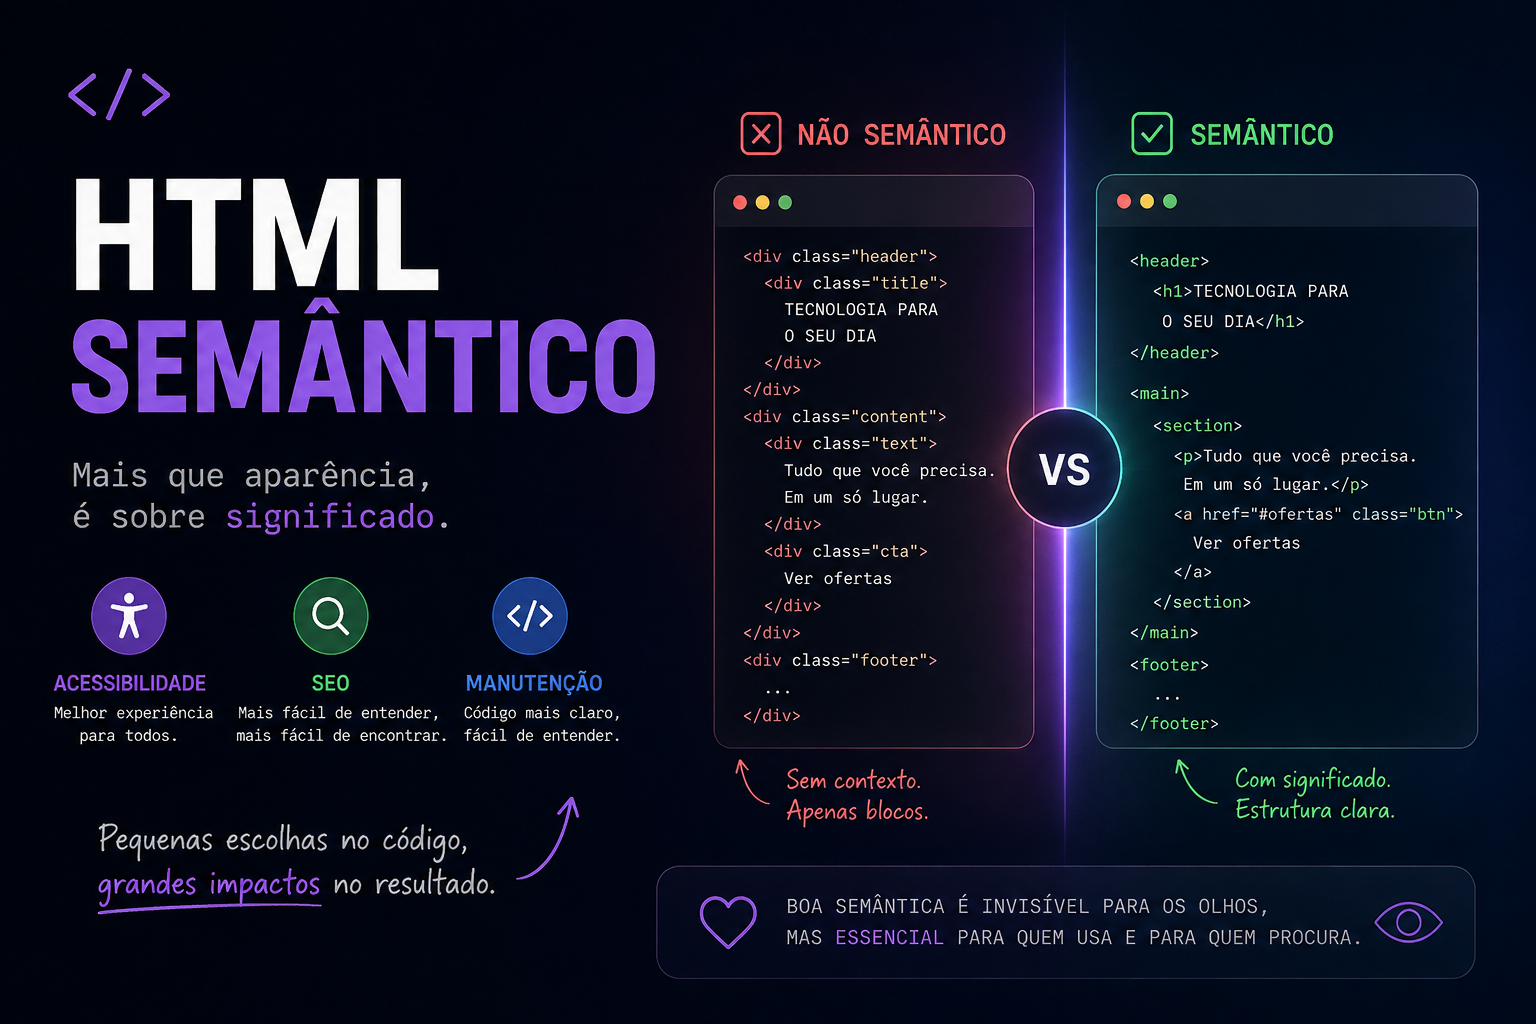
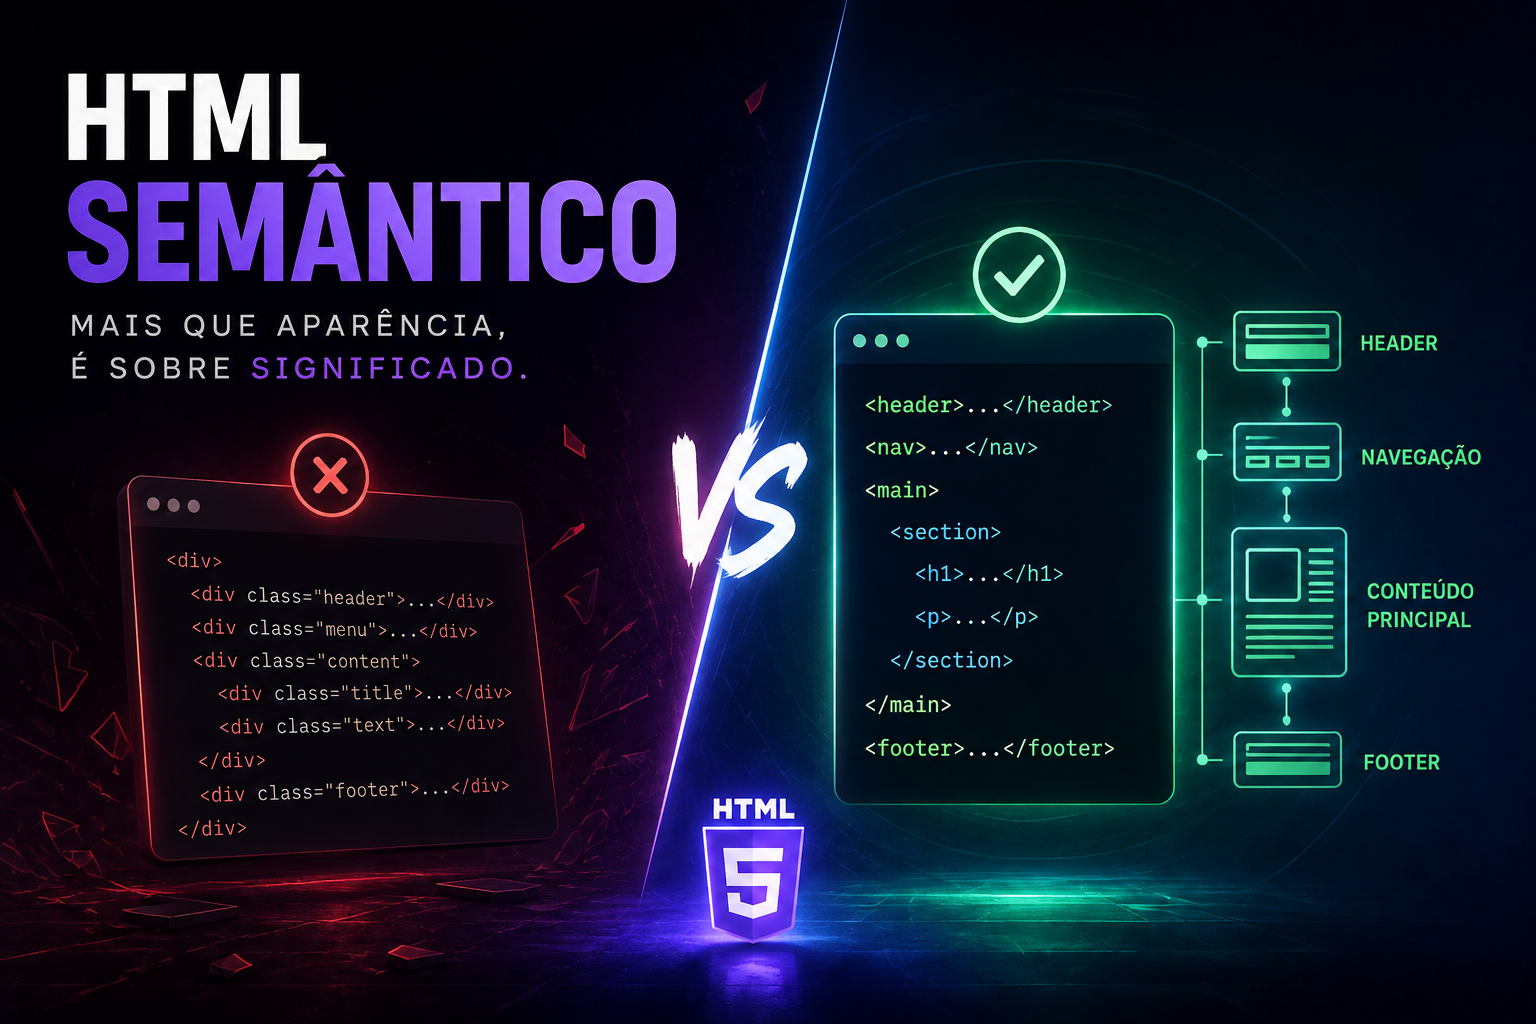
feat(blog): enhance blog with semantic HTML and syntax highlighting support

diff --git a/app/utils/markdown.ts b/app/utils/markdown.ts
@@ -1,0 +1,59 @@
+import hljs from 'highlight.js/lib/core'
+import bash from 'highlight.js/lib/languages/bash'
+import css from 'highlight.js/lib/languages/css'
+import javascript from 'highlight.js/lib/languages/javascript'
+import json from 'highlight.js/lib/languages/json'
+import typescript from 'highlight.js/lib/languages/typescript'
+import xml from 'highlight.js/lib/languages/xml'
+import MarkdownIt from 'markdown-it'
+
+hljs.registerLanguage('bash', bash)
+hljs.registerLanguage('css', css)
+hljs.registerLanguage('html', xml)
+hljs.registerLanguage('javascript', javascript)
+hljs.registerLanguage('js', javascript)
+hljs.registerLanguage('json', json)
+hljs.registerLanguage('typescript', typescript)
+hljs.registerLanguage('ts', typescript)
+hljs.registerLanguage('vue', xml)
+hljs.registerLanguage('xml', xml)
+
+const escapeHtml = (value: string) =>
+  value
+    .replaceAll('&', '&amp;')
+    .replaceAll('<', '&lt;')
+    .replaceAll('>', '&gt;')
+    .replaceAll('"', '&quot;')
+
+export const createMarkdownRenderer = () => {
+  const markdown = new MarkdownIt({
+    html: false,
+    linkify: true,
+    typographer: true,
+    highlight: (code, language) => {
+      if (language && hljs.getLanguage(language)) {
+        return hljs.highlight(code, { language }).value
+      }
+
+      return escapeHtml(code)
+    },
+  })
+
+  const defaultLinkOpenRenderer = markdown.renderer.rules.link_open
+
+  markdown.renderer.rules.link_open = (tokens, index, options, env, self) => {
+    const href = tokens[index].attrGet('href') ?? ''
+    const isExternal = /^https?:\/\//.test(href)
+
+    if (isExternal) {
+      tokens[index].attrSet('target', '_blank')
+      tokens[index].attrSet('rel', 'noreferrer')
+    }
+
+    return defaultLinkOpenRenderer
+      ? defaultLinkOpenRenderer(tokens, index, options, env, self)
+      : self.renderToken(tokens, index, options)
+  }
+
+  return markdown
+}

diff --git a/app/pages/blog/[slug]/index.vue b/app/pages/blog/[slug]/index.vue
@@ -48,10 +48,10 @@
 import AppFooter from '~/components/layout/AppFooter.vue'
 import AppNavbar from '~/components/layout/AppNavbar.vue'
 import Header from '~/components/header/index.vue'
-import MarkdownIt from 'markdown-it'
 import { blogArticles } from '~/data/blog'
 import { siteUrl } from '~/data/constants'
 import { portfolio } from '~/data/portfolio'
+import { createMarkdownRenderer } from '~/utils/markdown'
 
 const route = useRoute()
 const articleSlug = route.params.slug
@@ -68,27 +68,7 @@ if (!article) {
 const canonicalUrl = `${siteUrl}/blog/${article.slug}`
 const socialImage = `${siteUrl}${article.image}`
 
-const markdown = new MarkdownIt({
-  html: false,
-  linkify: true,
-  typographer: true,
-})
-
-const defaultLinkOpenRenderer = markdown.renderer.rules.link_open
-
-markdown.renderer.rules.link_open = (tokens, index, options, env, self) => {
-  const href = tokens[index].attrGet('href') ?? ''
-  const isExternal = /^https?:\/\//.test(href)
-
-  if (isExternal) {
-    tokens[index].attrSet('target', '_blank')
-    tokens[index].attrSet('rel', 'noreferrer')
-  }
-
-  return defaultLinkOpenRenderer
-    ? defaultLinkOpenRenderer(tokens, index, options, env, self)
-    : self.renderToken(tokens, index, options)
-}
+const markdown = createMarkdownRenderer()
 
 const renderedArticle = computed(() => markdown.render(article.content))
 

diff --git a/app/pages/changelog.vue b/app/pages/changelog.vue
@@ -22,37 +22,17 @@
 </template>
 
 <script setup lang="ts">
-import MarkdownIt from 'markdown-it'
 import changelog from '../../CHANGELOG.md?raw'
 import AppFooter from '~/components/layout/AppFooter.vue'
 import AppNavbar from '~/components/layout/AppNavbar.vue'
 import Header from '~/components/header/index.vue'
 import { siteUrl } from '~/data/constants'
 import { portfolio } from '~/data/portfolio'
+import { createMarkdownRenderer } from '~/utils/markdown'
 
 const canonicalUrl = `${siteUrl}/changelog`
 
-const markdown = new MarkdownIt({
-  html: false,
-  linkify: true,
-  typographer: true,
-})
-
-const defaultLinkOpenRenderer = markdown.renderer.rules.link_open
-
-markdown.renderer.rules.link_open = (tokens, index, options, env, self) => {
-  const href = tokens[index].attrGet('href') ?? ''
-  const isExternal = /^https?:\/\//.test(href)
-
-  if (isExternal) {
-    tokens[index].attrSet('target', '_blank')
-    tokens[index].attrSet('rel', 'noreferrer')
-  }
-
-  return defaultLinkOpenRenderer
-    ? defaultLinkOpenRenderer(tokens, index, options, env, self)
-    : self.renderToken(tokens, index, options)
-}
+const markdown = createMarkdownRenderer()
 
 const renderedChangelog = computed(() => markdown.render(changelog))
 

diff --git a/app/data/blogMetadata.ts b/app/data/blogMetadata.ts
@@ -7,6 +7,7 @@ export const blogArticlesMetadata: BlogArticleMetadata[] = [
     slug: 'como-eu-construi-meu-portifolio',
     title: 'Como eu construí meu portfólio',
     date: 'Artigo',
+    publishedAtIso: '2026-08-13',
     publishedAt: '13 de agosto de 2026',
     description: 'Um guia prático sobre escolhas semânticas, estados de foco e pequenos cuidados de implementação que melhoram a experiência de leitura e navegação para todas as pessoas.',
     image: blogImage('como-eu-construi-meu-portifolio', 'cover.png'),
@@ -15,6 +16,7 @@ export const blogArticlesMetadata: BlogArticleMetadata[] = [
     slug: 'html-semantico',
     title: 'HTML Semântico',
     date: 'Artigo',
+    publishedAtIso: '2026-08-18',
     publishedAt: '18 de agosto de 2026',
     description: 'Um olhar prático sobre como o HTML semântico melhora acessibilidade, navegação, SEO e manutenção mesmo em páginas que parecem visualmente iguais.',
     image: blogImage('html-semantico', 'cover.png'),

diff --git a/app/data/blog.ts b/app/data/blog.ts
@@ -22,4 +22,6 @@ export const blogArticles: BlogArticle[] = [
     ...getBlogArticleMetadata('html-semantico'),
     content: HTMLSemantico,
   },
-]
+].toSorted((currentArticle, nextArticle) =>
+  nextArticle.publishedAtIso.localeCompare(currentArticle.publishedAtIso),
+)

diff --git a/app/assets/css/theme.css b/app/assets/css/theme.css
@@ -1,6 +1,7 @@
 @import "tailwindcss";
 @config "../../../tailwind.config.ts";
 @import "@nuxt/ui";
+@import "highlight.js/styles/github-dark.css";
 
 @theme inline {
   --color-background: rgb(var(--color-background-rgb) / 1);

diff --git a/app/types/blog.ts b/app/types/blog.ts
@@ -2,6 +2,7 @@ export interface BlogArticleMetadata {
   slug: string
   title: string
   date: string
+  publishedAtIso: string
   publishedAt: string
   description: string
   image: string

diff --git a/app/content/blog/html-semantico.md b/app/content/blog/html-semantico.md
@@ -221,5 +221,3 @@ No fim, talvez o melhor jeito de resumir seja este:
 HTML semântico não vai deixar seu site mais bonito.
 
 Mas pode deixar seu site muito melhor.
-
-![Comparação final reforçando que páginas visualmente iguais podem ter estruturas HTML muito diferentes.](/images/blog/html-semantico/final.png)
